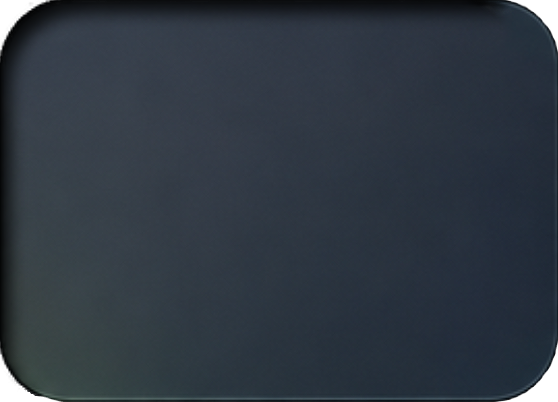
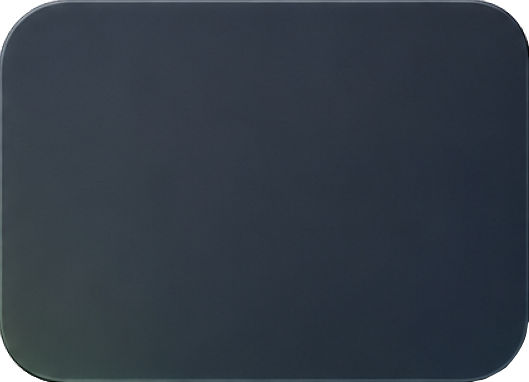
65465

diff --git a/src/pages/DashboardPage.tsx b/src/pages/DashboardPage.tsx
@@ -161,7 +161,7 @@ export function DashboardPage() {
       </section>
 
       <section className="mb-5 grid gap-4 xl:grid-cols-[0.9fr_1.1fr]">
-        <Card className="surface-flow">
+        <Card className="surface-gas-shell rounded-[4.75rem]">
           <CardHeader className="px-6 pb-1 pt-6">
             <CardTitle className="text-base">Склад бази</CardTitle>
           </CardHeader>
@@ -181,7 +181,7 @@ export function DashboardPage() {
           </CardContent>
         </Card>
 
-<Card className="surface-stat-liq rounded-[4.15rem]">
+<Card className="surface-flow rounded-[4.15rem]">
   <CardHeader className="px-6 pb-1 pt-6">
     <CardTitle className="text-base">Найактивніші локації</CardTitle>
   </CardHeader>
@@ -240,8 +240,8 @@ export function DashboardPage() {
       </section>
 
       <section className="mb-5 grid gap-4 xl:grid-cols-[1.1fr_0.9fr]">
-        <Card className="surface-flow">
-          <CardHeader className="px-6 pb-1 pt-6">
+        <Card className="surface-gas-shell rounded-[6.75rem]">
+          <CardHeader className="px-6 pb-1 pt-18">
             <CardTitle className="text-base">Цінові коридори</CardTitle>
           </CardHeader>
           <CardContent className="h-72 rounded-[1.25rem] p-4 pt-0">
@@ -437,7 +437,7 @@ function ProgressRow({ label, value, total }: { label: string; value: number; to
 
 function InsightCard({ icon, title, value, hint }: { icon: ReactNode; title: string; value: string; hint: string }) {
   return (
-    <Card className="surface-vault">
+    <Card className="surface-market">
       <CardContent className="p-4">
         <div className="mb-3 flex items-center gap-2 text-muted-foreground">
           {icon}
@@ -453,7 +453,7 @@ function InsightCard({ icon, title, value, hint }: { icon: ReactNode; title: str
 function Leaderboard({ title, rows, empty }: { title: string; rows: { label: string; value: number }[]; empty: string }) {
   const max = Math.max(...rows.map((row) => row.value), 1);
   return (
-    <Card className="surface-alpha">
+    <Card className="surface">
       <CardHeader>
         <CardTitle className="text-base">{title}</CardTitle>
       </CardHeader>

diff --git a/src/styles.css b/src/styles.css
@@ -216,6 +216,11 @@
     border-radius: 2rem;
   }
 
+    .surface-gas-shell {
+    --surface-image: url("../приклад/gas-shell.png");
+    border-radius: 2rem;
+  }
+
   .surface-upgrade {
     --surface-image: url("../приклад/upgrade-shell.png");
     --png-fit-left: 3.59%;

diff --git a/src/components/page-shell.tsx b/src/components/page-shell.tsx
@@ -36,5 +36,5 @@ export function PageHeader({ title, description, children }: { title: string; de
 }
 
 export function PageShell({ children }: { children: ReactNode }) {
-  return <div className="p-4 md:p-8 max-w-7xl mx-auto">{children}</div>;
+  return <div className="p-4 md:p-8 max-w-5xl mx-auto">{children}</div>;
 }